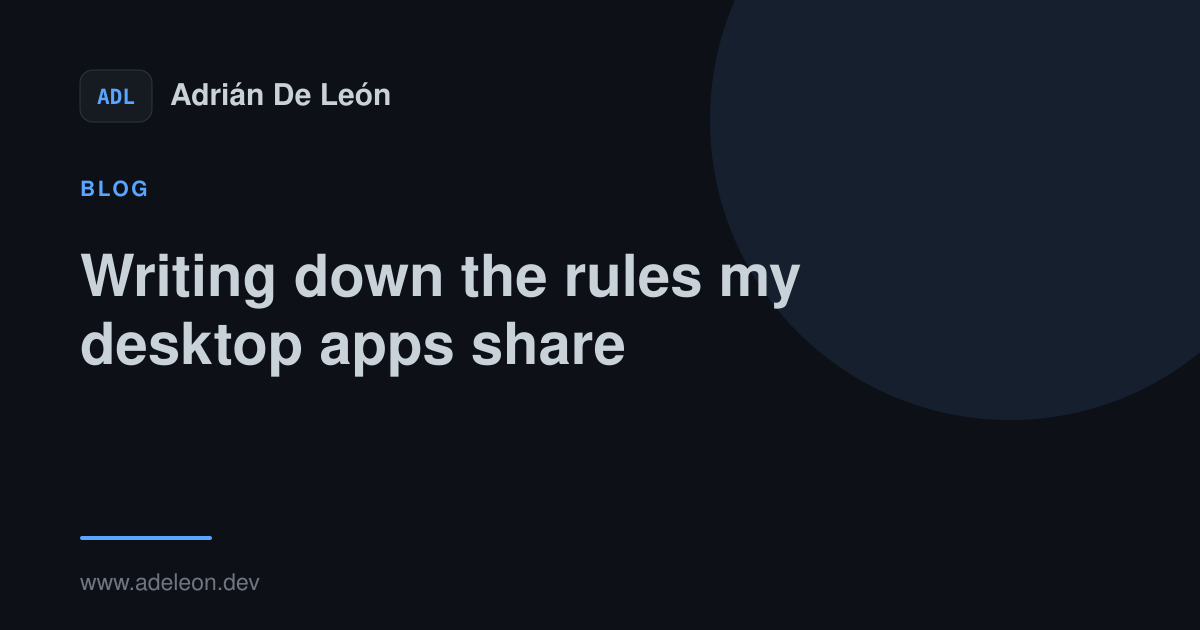
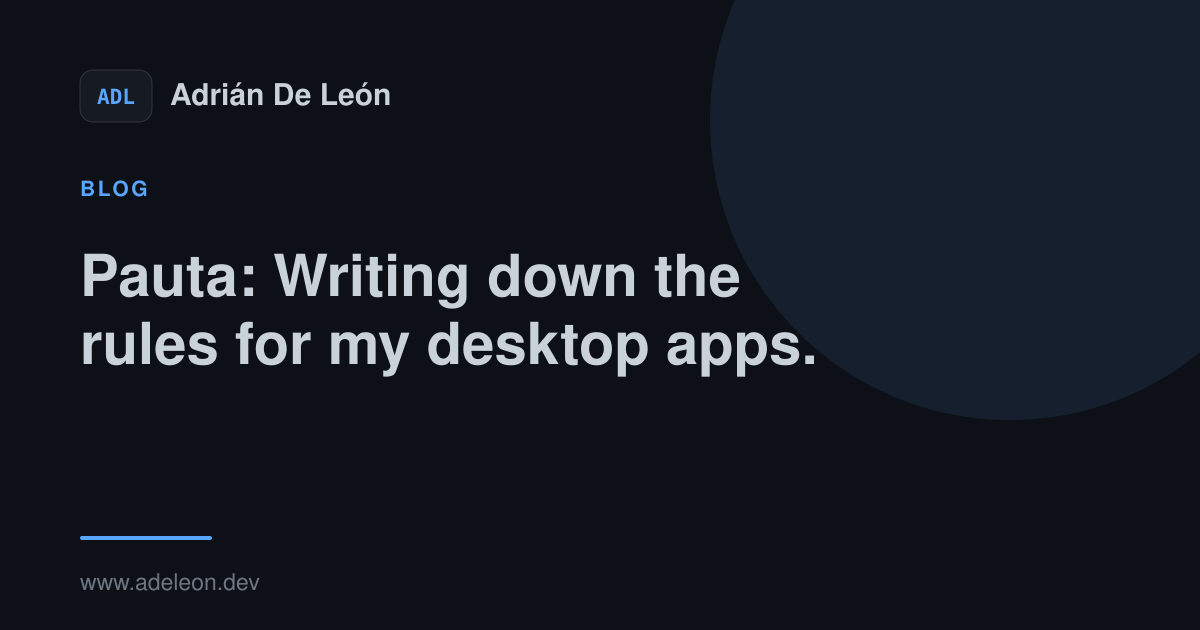
added images

Changed region(s): [[0.0617, 0.3921, 0.6783, 0.6032]]

diff --git a/src/content/blog/pauta.md b/src/content/blog/pauta.md
@@ -24,9 +24,24 @@ as a starting point for the others.
 They all use JavaFX, they all have Spanish-*ish?* names, and they're
 all the way I want them (Yeay Open Source!).
 
+<div class="app-icons">
+
+![Editora icon](./pauta/icon-editora.png)
+![Termina icon](./pauta/icon-termina.png)
+![Torrenta icon](./pauta/icon-torrenta.png)
+![Modula icon](./pauta/icon-modula.png)
+![Mirada icon](./pauta/icon-mirada.png)
+![Nux icon](./pauta/icon-nux.png)
+
+</div>
+
 By the time I got to the fourth app, I'd built the Settings window four
 times. It was supposed to work the same way in each app, but I'd made it a
 little different every time, it just kind of happened.
+
+<!-- IMAGE (top pick): the Settings window from four apps, side by side.
+![The Settings window in Editora, Termina, Torrenta and Modula, each laid out slightly differently](./pauta/settings-four-apps.png)
+-->
 
 ## The differences
 
@@ -42,6 +57,11 @@ the status bar, and once it disappears there's nowhere to read it
 again. Not what I want, but while building it, it wasn't a top
 priority to be honest.
 
+<!-- IMAGE: Termina's status-bar error next to Editora's Message Log popup.
+     For an animated GIF of the error flashing, put it in public/images/ and use /images/termina-status-error.gif instead.
+![Left, an error message in Termina’s status bar. Right, the same kind of error listed in Editora’s Message Log popup](./pauta/message-log-vs-status-bar.png)
+-->
+
 Most of these are quick fixes once I notice them. I'd settled on a way of
 doing things in **Editora**, and every time I started another app I'd copy over
 whatever I remembered. Sometimes I'd forget a detail or do it differently
@@ -49,10 +69,16 @@ without realizing. So I started to wrote down what I wanted the apps to share.
 
 ## Pauta
 
-I called the guide **Pauta** (full name P**auta: adl's Desktop apps**
+I called the guide **[Pauta](https://pauta-project.dev/)** (full name P**auta: adl's Desktop apps**
 **guidelines**, yes is a name-full). In Spanish, *pauta* can mean a
 guideline or the ruled lines on writing paper. *(The icon is three ruled*
 *lines and a tick)*
+
+<div class="icon-image">
+
+![The Pauta icon: three ruled lines with a tick mark](./pauta/pauta-icon.png)
+
+</div>
 
 The guide starts with a list of principles. Ten are about using the apps.
 I want to be able to do everything from the keyboard, see settings take
@@ -67,6 +93,10 @@ something looks like a link, it should work. The About window should wait
 for the update check before it says "up to date". If a setting needs a
 restart, say so in the same row.
 
+<!-- IMAGE: the About window while the update check is still running.
+![An About window showing “Checking for updates…” instead of claiming the app is up to date](./pauta/about-checking-updates.png)
+-->
+
 I break the other three more often. Keep one source of truth for each fact
 and add a test that fails if two copies get out of sync. Pull decisions out
 of the UI into small, pure methods so I can test them without opening a
@@ -80,6 +110,8 @@ In **[Pauta](https://pauta-project.dev/)**, The rules are marked **MUST**, **SHO
 in **Editora** I can copy/review. When I need to add a Message Log, I can go straight
 to `ui/MessageLog.java` and `ui/MessageLogPopup.java`.
 
+![The Message Log page in Pauta: a rule marked MUST for every app with a status bar, pointing to Editora’s ui/MessageLog.java and ui/MessageLogPopup.java](./pauta/rule-entry.png)
+
 Funny story: there's a rule on the Settings page that came out of
 building **Modula**. I left out gain, bandwidth and squelch controls on
 purpose. When I was deciding what to put in the UI, I'd ask myself
@@ -88,23 +120,33 @@ make sense. I'd be surprised to find a spinner for decimation stages.
 If there's one right value for a setting, I pick it and leave the
 control out.
 
+<div class="narrow-image">
+
+![Modula tuned to 106.9 MHz, with a spectrum display, tuning buttons, station presets and a volume slider, but no gain, bandwidth or squelch controls](./pauta/modula-radio.png)
+
+</div>
+
 ## The feature matrix
 
 The feature matrix is the page I look at most. It has six columns, one
 per app, and a row for every rule. A full dot means the app implements the
-rule, a half dot means it implements part of it, and a dash means it's
+rule, a half dot means it implements part of it, and an empty dot means it's
 missing. There's also a page listing every **MUST** each app fails.
+
+![The Release and signing section of the Pauta feature matrix: one column per app, one row per rule, with full, half and empty dots. The Windows .msi Authenticode row is empty for all six apps](./pauta/feature-matrix.png)
 
 **Editora** is the reference implementation and it still fails one
 rule. None of the six apps has a signed Windows installer. I've been
 meaning to set up
 [Authenticode](https://learn.microsoft.com/en-us/windows-hardware/drivers/install/authenticode)
-for a while. That row has six dashes in it. I'll get to this one soon, promise!
+for a while. That row has six empty dots in it. I'll get to this one soon, promise!
 
 **Modula** is missing a coverage gate, translations, settings search, a
 Message Log and a way to report a problem from inside the app. I knew
 about each of those, but I'd never put them all in one place. Now I can
 use the gaps page as my backlog.
+
+![The Pauta gaps page: a table listing the missing MUST rules for each of the six apps, with Modula’s row the longest](./pauta/gaps.png)
 
 ## Why Pauta is public
 
@@ -129,6 +171,10 @@ Click "*Use this template*" and run the rename script, and you have a
 small runnable app with tests, CI, release workflows and all the
 repository documents. I've done that by hand six times, a little
 differently each time.
+
+<!-- IMAGE (optional): the app you get from the template after running the rename script.
+![A freshly generated app from the adl desktop app template, running with its default window](./pauta/template-app.png)
+-->
 
 ## Two days in
 
